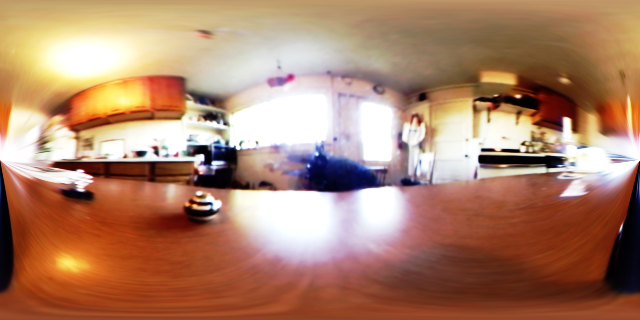
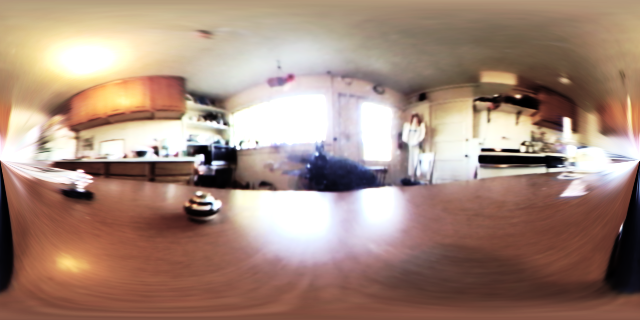
Post process: improve uniform contrast.

diff --git a/PostProcessDLL/PostProcess.cpp b/PostProcessDLL/PostProcess.cpp
@@ -595,9 +595,26 @@ void ExecutePostProcessHydra1(
     #pragma omp parallel for
     for (int i = 0; i < sizeImage; ++i)
     {
+      const float meanRGBsource = (image4out[i].x + image4out[i].y + image4out[i].z) / 3.0f;
+      const float meanRGB_UC = (rgbArray[i] + rgbArray[i + sizeImage] + rgbArray[i + sizeImage * 2]) / 3.0f;
+
+      float diff = meanRGB_UC / (meanRGBsource + 0.0001f);
+      float3 rgbDiff;
+      rgbDiff.x = image4out[i].x;
+      rgbDiff.y = image4out[i].y;
+      rgbDiff.z = image4out[i].z;
+
+      Blend(rgbDiff.x, image4out[i].x * diff, a_uniformContrast);
+      Blend(rgbDiff.y, image4out[i].y * diff, a_uniformContrast);
+      Blend(rgbDiff.z, image4out[i].z * diff, a_uniformContrast);
+
       Blend(image4out[i].x, rgbArray[i], a_uniformContrast);
       Blend(image4out[i].y, rgbArray[i + sizeImage], a_uniformContrast);
       Blend(image4out[i].z, rgbArray[i + sizeImage * 2], a_uniformContrast);
+
+      Blend(image4out[i].x, rgbDiff.x, 0.5f);
+      Blend(image4out[i].y, rgbDiff.y, 0.5f);
+      Blend(image4out[i].z, rgbDiff.z, 0.5f);
     }
   }
 
